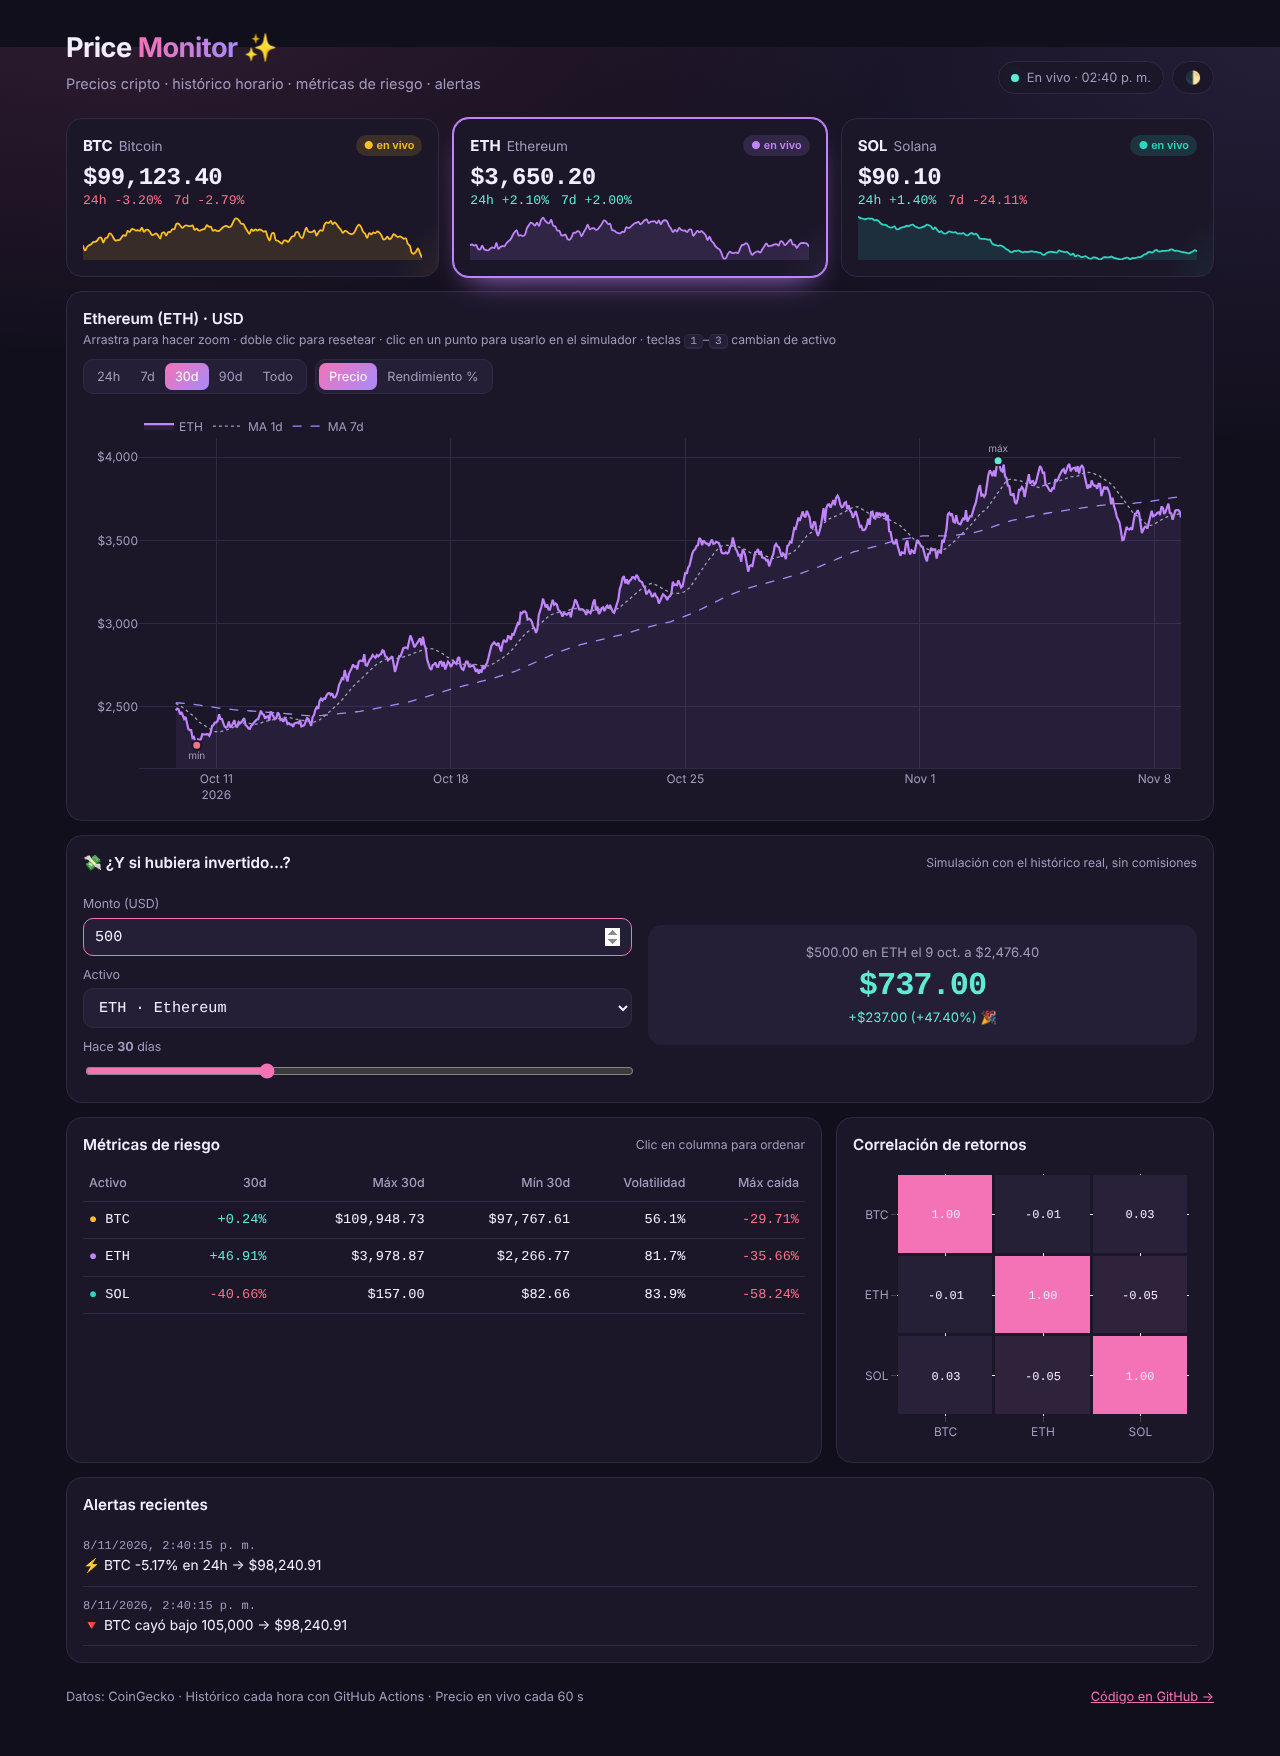
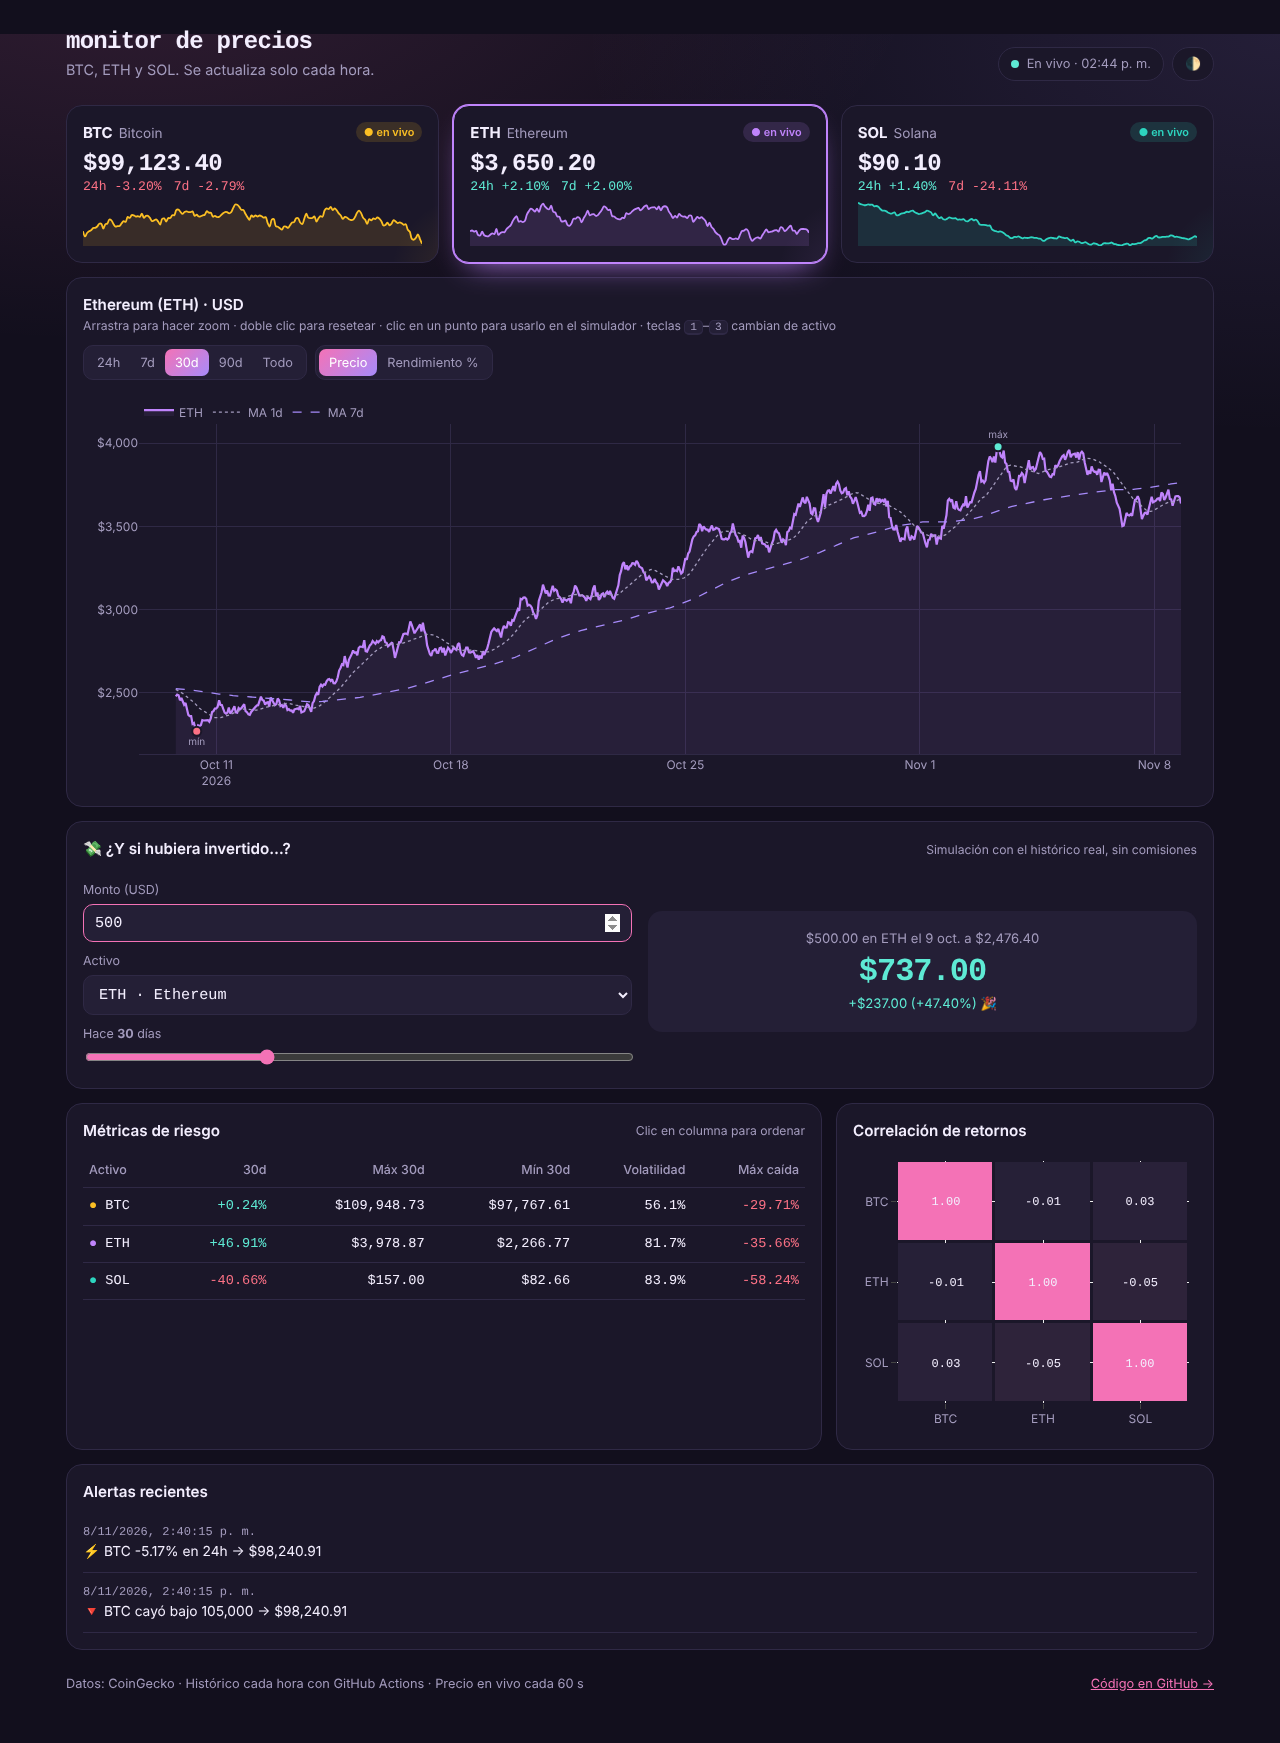
style: título más simple
Claude-Session: https://claude.ai/code/session_01DN3gYZkob3ucegjpoMjC41

diff --git a/docs/index.html b/docs/index.html
@@ -3,7 +3,7 @@
 <head>
 <meta charset="utf-8">
 <meta name="viewport" content="width=device-width,initial-scale=1">
-<title>Price Monitor · Dashboard cripto</title>
+<title>monitor de precios</title>
 <meta name="description" content="Monitor de precios cripto con histórico, métricas de riesgo, simulador y alertas, actualizado cada hora con GitHub Actions.">
 <link rel="preconnect" href="https://fonts.googleapis.com">
 <link href="https://fonts.googleapis.com/css2?family=Inter:wght@400;500;600;700&family=JetBrains+Mono:wght@500&display=swap" rel="stylesheet">
@@ -32,8 +32,7 @@ body{margin:0;background:var(--bg);color:var(--fg);font:15px/1.5 Inter,system-ui
   background-attachment:fixed}
 .wrap{max-width:1180px;margin:0 auto;padding:28px 16px 48px}
 header{display:flex;justify-content:space-between;align-items:flex-end;gap:16px;flex-wrap:wrap;margin-bottom:24px}
-h1{font-size:1.7rem;margin:0;letter-spacing:-.02em}
-h1 span{background:linear-gradient(90deg,var(--accent),var(--accent2));-webkit-background-clip:text;background-clip:text;color:transparent}
+h1{font:600 1.5rem var(--mono);margin:0;letter-spacing:-.03em}
 .sub{color:var(--muted);font-size:.9rem;margin-top:4px}
 .hdr-r{display:flex;gap:8px;align-items:center;flex-wrap:wrap}
 .pill{display:inline-flex;align-items:center;gap:8px;font-size:.8rem;color:var(--muted);
@@ -105,8 +104,8 @@ kbd{font:500 .7rem var(--mono);border:1px solid var(--line);border-bottom-width:
 <div class="wrap">
   <header>
     <div>
-      <h1>Price <span>Monitor</span> ✨</h1>
-      <div class="sub">Precios cripto · histórico horario · métricas de riesgo · alertas</div>
+      <h1>monitor de precios</h1>
+      <div class="sub">BTC, ETH y SOL. Se actualiza solo cada hora.</div>
     </div>
     <div class="hdr-r">
       <span class="pill" title="Precio en vivo consultado desde tu navegador cada 60 s"><i class="dot" id="dot"></i><span id="updated">Cargando…</span></span>
